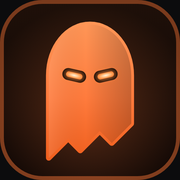
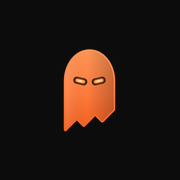
app lock only inside installed app

diff --git a/components/AppLock.tsx b/components/AppLock.tsx
@@ -25,6 +25,19 @@ function b64d(s: string) {
   for (let i = 0; i < bin.length; i++) out[i] = bin.charCodeAt(i);
   return out;
 }
+/** The lock only applies inside the installed app (APK / home-screen app), never in a normal browser tab. */
+export function isInstalledApp(): boolean {
+  try {
+    if (document.referrer.startsWith("android-app://")) sessionStorage.setItem("wx_app", "1");
+    return (
+      sessionStorage.getItem("wx_app") === "1" ||
+      (navigator as Navigator & { standalone?: boolean }).standalone === true ||
+      window.matchMedia("(display-mode: standalone), (display-mode: fullscreen), (display-mode: minimal-ui)").matches
+    );
+  } catch {
+    return false;
+  }
+}
 function load(): Stored | null {
   try { const v = localStorage.getItem(KEY); return v ? (JSON.parse(v) as Stored) : null; } catch { return null; }
 }
@@ -82,10 +95,10 @@ export default function AppLock() {
 
   const unlock = useCallback(async () => {
     const s = load();
-    if (!s?.on) { setLocked(false); return; }
+    if (!s?.on || !isInstalledApp()) { setLocked(false); document.documentElement.classList.remove("wx-prelock"); return; }
     setBusy(true); setErr("");
     try {
-      if (await verify(s.id)) setLocked(false);
+      if (await verify(s.id)) { setLocked(false); document.documentElement.classList.remove("wx-prelock"); }
       else setErr("Could not verify. Try again.");
     } catch (e) {
       const name = (e as { name?: string })?.name;
@@ -96,12 +109,12 @@ export default function AppLock() {
   }, []);
 
   useEffect(() => {
-    if (load()?.on) { setLocked(true); void unlock(); }
+    if (load()?.on && isInstalledApp()) { setLocked(true); void unlock(); } else { document.documentElement.classList.remove("wx-prelock"); }
     const onVis = () => {
       if (document.visibilityState === "hidden") { hiddenAt.current = Date.now(); return; }
-      if (load()?.on && hiddenAt.current && Date.now() - hiddenAt.current > LOCK_AFTER_MS) { setLocked(true); void unlock(); }
+      if (load()?.on && isInstalledApp() && hiddenAt.current && Date.now() - hiddenAt.current > LOCK_AFTER_MS) { setLocked(true); void unlock(); }
     };
-    const onChange = () => { if (!load()?.on) setLocked(false); };
+    const onChange = () => { if (!load()?.on) { setLocked(false); document.documentElement.classList.remove("wx-prelock"); } };
     document.addEventListener("visibilitychange", onVis);
     window.addEventListener("wraith:applock-changed", onChange);
     return () => { document.removeEventListener("visibilitychange", onVis); window.removeEventListener("wraith:applock-changed", onChange); };
@@ -110,14 +123,20 @@ export default function AppLock() {
   if (!locked) return null;
   return (
     <div className="wx-lock" role="dialog" aria-modal="true" aria-label="App locked">
-      {/* eslint-disable-next-line @next/next/no-img-element */}
-      <img src="/logo.png" alt="" width={56} height={64} />
-      <h2>Wraith is locked</h2>
-      <p>Use your fingerprint, face or screen lock to continue.</p>
-      <button type="button" onClick={() => void unlock()} disabled={busy}>
-        <Fingerprint size={22} /> {busy ? "Waiting…" : "Unlock"}
-      </button>
-      {err && <small>{err}</small>}
+      <div className="wx-lock-mid">
+        <div className="wx-lock-tile">
+          {/* eslint-disable-next-line @next/next/no-img-element */}
+          <img src="/logo.png" alt="" width={44} height={49} />
+        </div>
+        <h2>Wraith</h2>
+        <p>Locked</p>
+      </div>
+      <div className="wx-lock-bottom">
+        <button type="button" onClick={() => void unlock()} disabled={busy}>
+          <Fingerprint size={22} /> {busy ? "Waiting…" : "Unlock with fingerprint"}
+        </button>
+        {err ? <small>{err}</small> : <small className="dim">Use your fingerprint, face or screen lock</small>}
+      </div>
     </div>
   );
 }

diff --git a/app/wraith-mobile.css b/app/wraith-mobile.css
@@ -284,18 +284,41 @@
 .wx-notif-row em { flex: 0 0 auto; color: var(--text-dim); font-size: 11px; font-style: normal; }
 
 /* ── App lock screen ──────────────────────────────────────────────────── */
+html.wx-prelock body > *:not(.wx-lock):not(#wx-boot) { visibility: hidden; }
+html.wx-prelock .wx-lock { visibility: visible; }
 .wx-lock {
-  position: fixed; inset: 0; z-index: 2147483600; display: flex; flex-direction: column; align-items: center; justify-content: center;
-  gap: 12px; padding: 24px; text-align: center; background: #0a0a0c; color: var(--text, #f2f2f3);
+  position: fixed; inset: 0; z-index: 2147483600; display: flex; flex-direction: column; justify-content: space-between;
+  padding: env(safe-area-inset-top, 0px) 22px calc(28px + env(safe-area-inset-bottom, 0px));
+  background: linear-gradient(180deg, #0a0a0c 0%, #0d0b0a 55%, #26140a 100%); color: var(--text, #f2f2f3);
 }
-.wx-lock h2 { margin: 8px 0 0; font-size: 20px; }
-.wx-lock p { margin: 0; max-width: 280px; color: var(--text-muted, #9a9aa0); font-size: 14px; line-height: 1.5; }
+.wx-lock-mid { flex: 1; display: flex; flex-direction: column; align-items: center; justify-content: center; gap: 6px; text-align: center; }
+.wx-lock-tile {
+  width: 96px; height: 96px; display: grid; place-items: center; margin-bottom: 14px; border-radius: 28px;
+  background: linear-gradient(160deg, rgba(255, 255, 255, .08), rgba(255, 255, 255, .02)); border: 1px solid rgba(255, 255, 255, .14);
+  box-shadow: 0 10px 40px rgba(255, 123, 61, .18);
+}
+.wx-lock h2 { margin: 0; font-size: 22px; font-weight: 800; letter-spacing: -.01em; }
+.wx-lock p { margin: 0; color: var(--text-muted, #9a9aa0); font-size: 14px; }
+.wx-lock-bottom { display: flex; flex-direction: column; align-items: center; gap: 12px; }
 .wx-lock button {
-  display: inline-flex; align-items: center; gap: 10px; margin-top: 14px; padding: 14px 28px; border: 0; border-radius: 14px;
+  width: 100%; min-height: 54px; display: inline-flex; align-items: center; justify-content: center; gap: 10px; border: 0; border-radius: 16px;
   background: var(--accent, #ff7b3d); color: #111; font: inherit; font-size: 16px; font-weight: 800; cursor: pointer;
 }
-.wx-lock button:disabled { opacity: .6; }
-.wx-lock small { color: #e58d80; font-size: 13px; }
+.wx-lock button:disabled { opacity: .65; }
+.wx-lock small { color: #e58d80; font-size: 13px; text-align: center; }
+.wx-lock small.dim { color: var(--text-dim, #6b6b72); }
+
+/* ── Installed-app feel: instant ghost splash, no pull-to-refresh, no tap flash ── */
+#wx-boot { position: fixed; inset: 0; z-index: 2147483000; display: none; place-items: center; background: #0c0c0d; transition: opacity .25s ease; }
+#wx-boot img { width: 60px; height: auto; }
+@media (display-mode: standalone), (display-mode: fullscreen), (display-mode: minimal-ui) {
+  #wx-boot { display: grid; }
+  html, body { overscroll-behavior: none; }
+  * { -webkit-tap-highlight-color: transparent; -webkit-touch-callout: none; }
+  html { background: #0c0c0d; }
+}
+#wx-boot.out { opacity: 0; pointer-events: none; }
+#wx-boot[hidden] { display: none !important; }
 
 /* B/S toggle never wraps */
 .wx-chart-toolbar .wx-icon-btn { white-space: nowrap; }

diff --git a/app/layout.tsx b/app/layout.tsx
@@ -7,6 +7,7 @@ import "./wraith-responsive.css";
 import "./wraith-mobile.css";
 import WalletProvider from "@/components/WalletProvider";
 import AppLock from "@/components/AppLock";
+import BootSplash from "@/components/BootSplash";
 import { WraithTierProvider } from "@/hooks/useWraithTier";
 
 const mono = IBM_Plex_Mono({
@@ -37,8 +38,14 @@ export default function RootLayout({
   children: React.ReactNode;
 }) {
   return (
-    <html lang="en" className={mono.variable}>
+    <html lang="en" className={mono.variable} suppressHydrationWarning>
+      <head>
+        <script dangerouslySetInnerHTML={{ __html: `var a=false;try{if(document.referrer.indexOf("android-app://")===0)sessionStorage.setItem("wx_app","1");a=sessionStorage.getItem("wx_app")==="1"||navigator.standalone===true||matchMedia("(display-mode: standalone), (display-mode: fullscreen), (display-mode: minimal-ui)").matches}catch(e){}try{var l=JSON.parse(localStorage.getItem("wraith_applock_v1")||"null");if(a&&l&&l.on)document.documentElement.classList.add("wx-prelock")}catch(e){}` }} />
+      </head>
       <body>
+        {/* eslint-disable-next-line @next/next/no-img-element */}
+        <div id="wx-boot" aria-hidden="true"><img src="/logo.png" alt="" width="60" height="67" /></div>
+        <BootSplash />
         <WalletProvider>
           <WraithTierProvider>{children}</WraithTierProvider>
           <AppLock />

diff --git a/components/AppLockMenuItem.tsx b/components/AppLockMenuItem.tsx
@@ -2,7 +2,7 @@
 
 import { useEffect, useState } from "react";
 import { Fingerprint } from "lucide-react";
-import { appLockEnabled, appLockSupported, disableAppLock, enableAppLock } from "@/components/AppLock";
+import { appLockEnabled, appLockSupported, disableAppLock, enableAppLock, isInstalledApp } from "@/components/AppLock";
 
 /** Profile-menu row: turn the fingerprint / face / screen-lock on or off. */
 export default function AppLockMenuItem() {
@@ -12,7 +12,7 @@ export default function AppLockMenuItem() {
   const [msg, setMsg] = useState("");
 
   useEffect(() => {
-    setOk(appLockSupported());
+    setOk(appLockSupported() && isInstalledApp()); // only offered inside the installed app
     const sync = () => setOn(appLockEnabled());
     sync();
     window.addEventListener("wraith:applock-changed", sync);

diff --git a/components/BootSplash.tsx b/components/BootSplash.tsx
@@ -1,0 +1,15 @@
+"use client";
+
+import { useEffect } from "react";
+
+/** Fades out the instant ghost splash (shown only when running as an installed app) once the page is ready. */
+export default function BootSplash() {
+  useEffect(() => {
+    const el = document.getElementById("wx-boot");
+    if (!el) return;
+    const t1 = setTimeout(() => el.classList.add("out"), 250);
+    const t2 = setTimeout(() => { el.hidden = true; }, 600);
+    return () => { clearTimeout(t1); clearTimeout(t2); };
+  }, []);
+  return null;
+}

diff --git a/app/manifest.ts b/app/manifest.ts
@@ -14,7 +14,8 @@ export default function manifest(): MetadataRoute.Manifest {
     theme_color: "#0c0c0d",
     icons: [
       { src: "/icon-192.png", sizes: "192x192", type: "image/png", purpose: "any" },
-      { src: "/app-icon.png", sizes: "512x512", type: "image/png", purpose: "any" },
+      { src: "/app-icon-v2.png", sizes: "512x512", type: "image/png", purpose: "any" },
+      { src: "/app-icon-v2.png", sizes: "512x512", type: "image/png", purpose: "maskable" },
     ],
   };
 }
